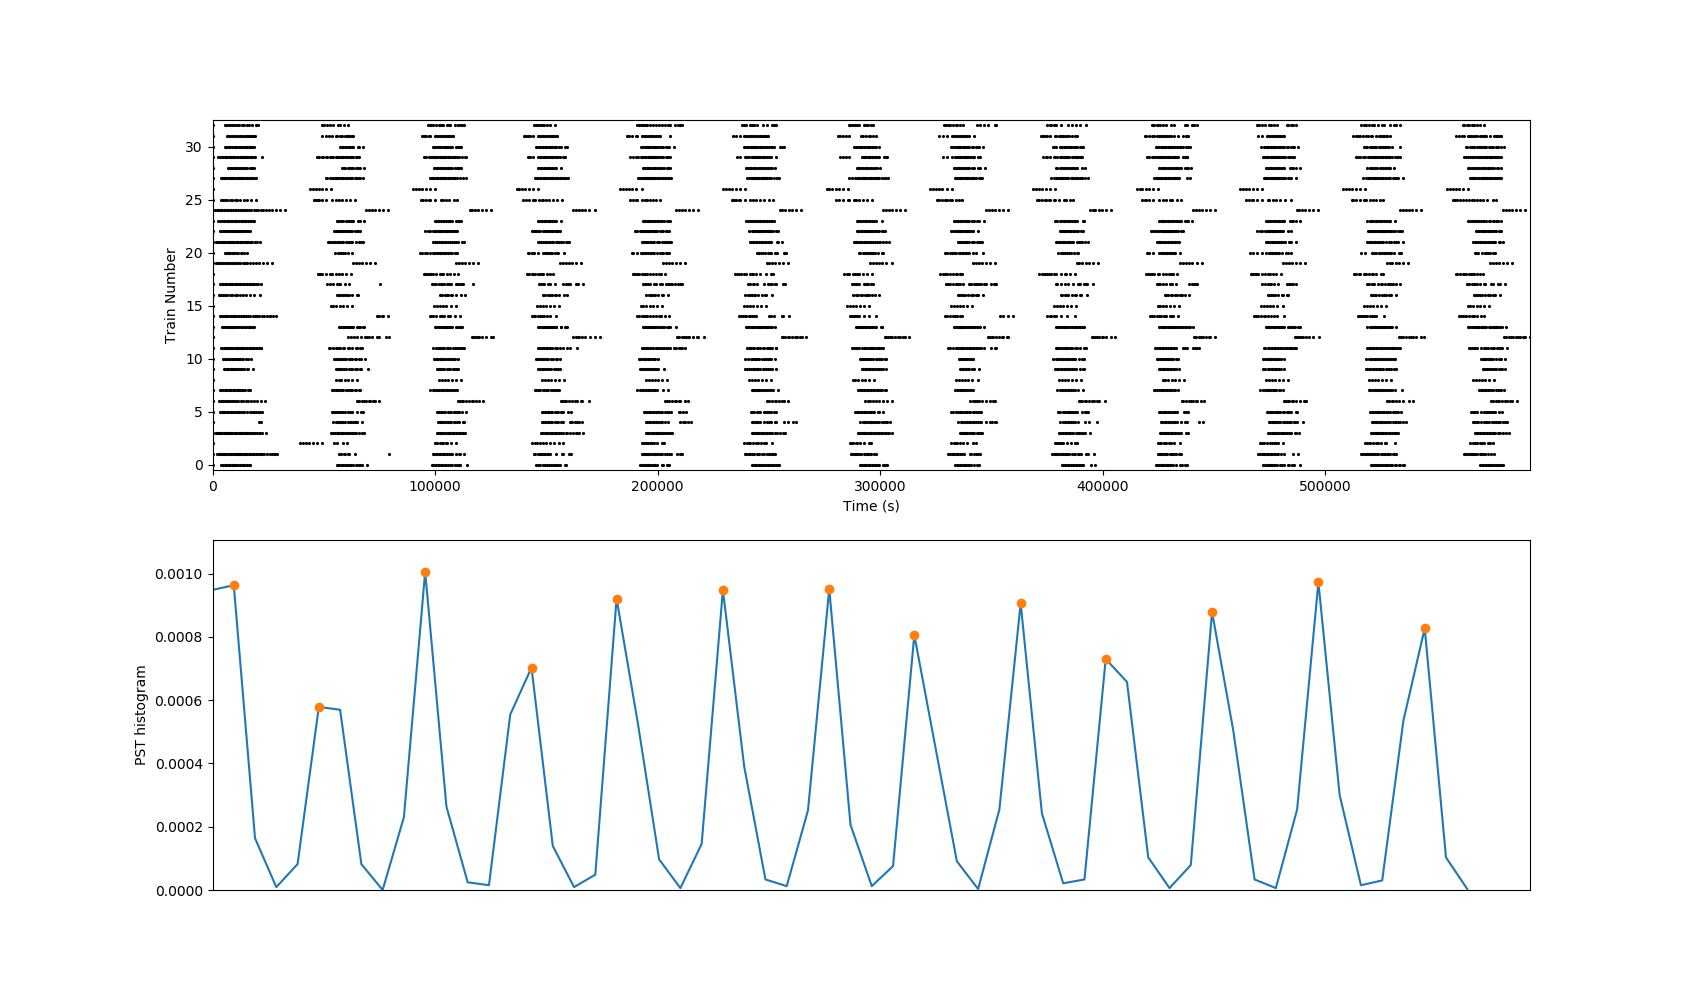
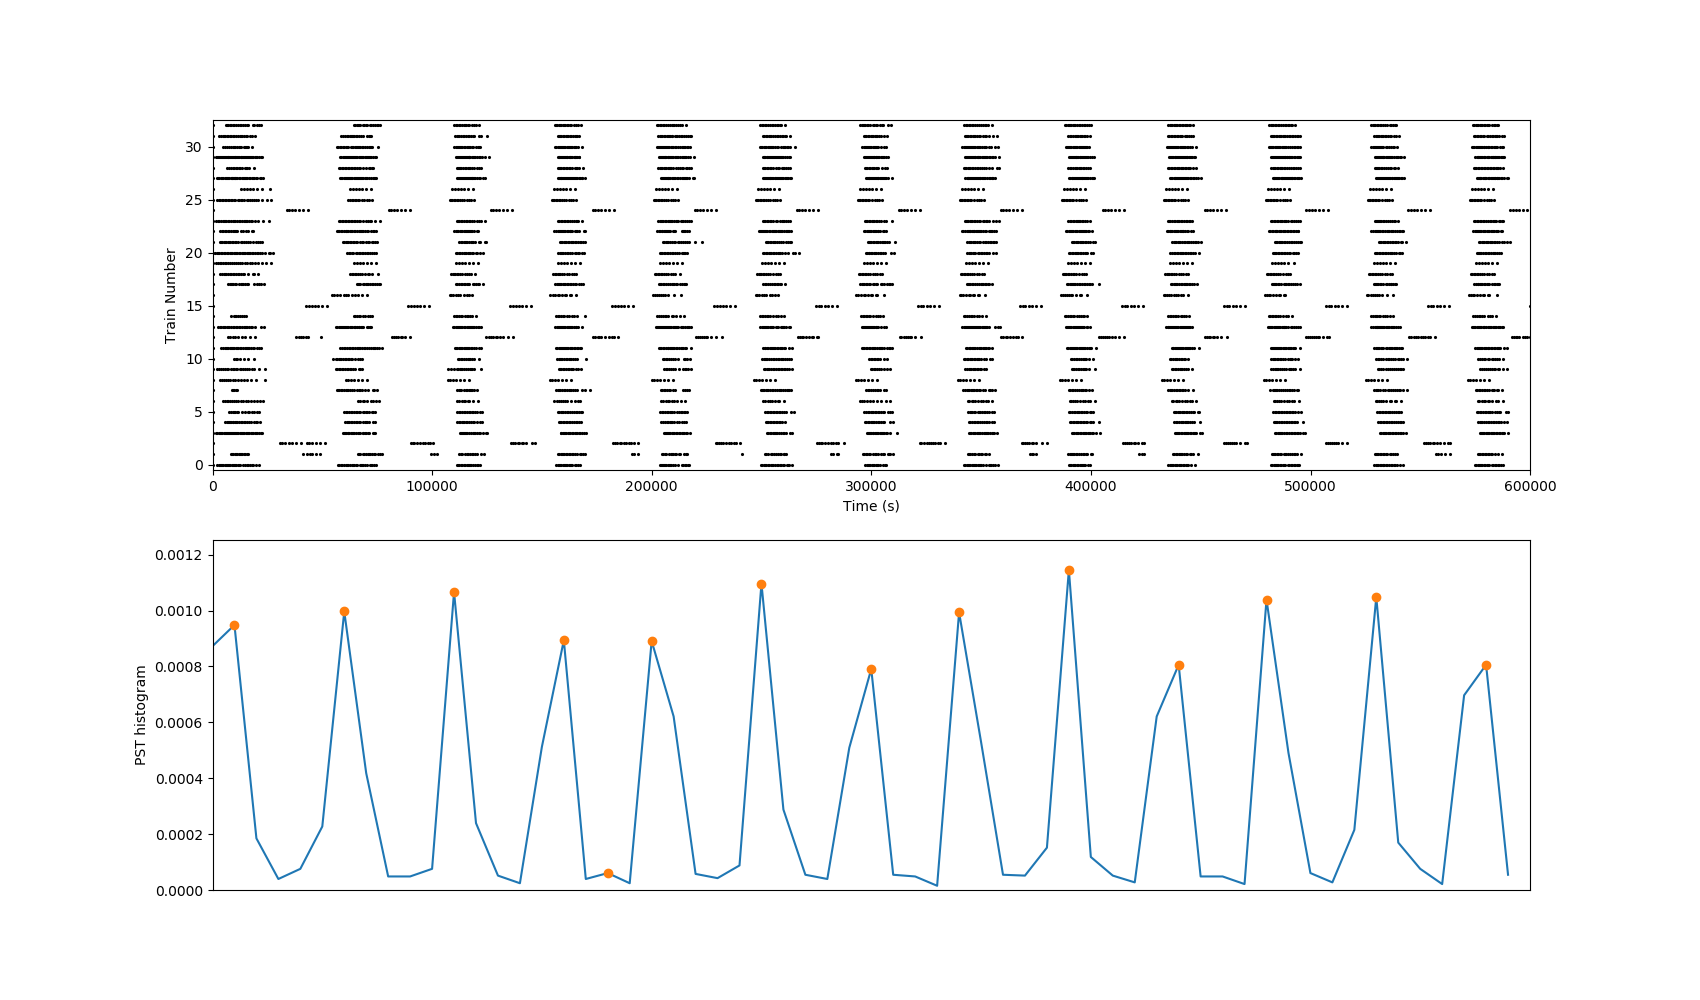
ran lots of sims

diff --git a/code/SPIKE/multi.py b/code/SPIKE/multi.py
@@ -1,8 +1,49 @@
 import os
 import sys
 
-matrix = sys.argv[1]
+# matrix = sys.argv[1]
 
-os.system("python ablate.py " + matrix + " q []")
-os.system("python ablate.py " + matrix + " cont []")
-os.system("python plotspikehist.py " + matrix)
+# os.system("python ablate.py " + matrix + " q []")
+# os.system("python ablate.py " + matrix + " cont []")
+# os.system("python plotspikehist.py " + matrix)
+
+
+os.system("python ablate.py " + "ER_n33p0.04" + " q []")
+os.system("python ablate.py " + "ER_n33p0.04" + " cont []")
+os.system("python plotspikehist.py " + "ER_n33p0.04")
+
+os.system("python ablate.py " + "ER_n33p0.05" + " q []")
+os.system("python ablate.py " + "ER_n33p0.05" + " cont []")
+os.system("python plotspikehist.py " + "ER_n33p0.05")
+
+os.system("python ablate.py " + "ER_n33p0.06" + " q []")
+os.system("python ablate.py " + "ER_n33p0.06" + " cont []")
+os.system("python plotspikehist.py " + "ER_n33p0.06")
+
+os.system("python ablate.py " + "ER_n33p0.07" + " q []")
+os.system("python ablate.py " + "ER_n33p0.07" + " cont []")
+os.system("python plotspikehist.py " + "ER_n33p0.07")
+
+os.system("python ablate.py " + "ER_n33p0.08" + " q []")
+os.system("python ablate.py " + "ER_n33p0.08" + " cont []")
+os.system("python plotspikehist.py " + "ER_n33p0.08")
+
+os.system("python ablate.py " + "ER_n33p0.09" + " q []")
+os.system("python ablate.py " + "ER_n33p0.09" + " cont []")
+os.system("python plotspikehist.py " + "ER_n33p0.09")
+
+os.system("python ablate.py " + "ER_n33p0.1" + " q []")
+os.system("python ablate.py " + "ER_n33p0.1" + " cont []")
+os.system("python plotspikehist.py " + "ER_n33p0.1")
+
+os.system("python ablate.py " + "ER_n33p0.11" + " q []")
+os.system("python ablate.py " + "ER_n33p0.11" + " cont []")
+os.system("python plotspikehist.py " + "ER_n33p0.11")
+
+os.system("python ablate.py " + "ER_n33p0.12" + " q []")
+os.system("python ablate.py " + "ER_n33p0.12" + " cont []")
+os.system("python plotspikehist.py " + "ER_n33p0.12")
+
+os.system("python ablate.py " + "ER_n33p0.13" + " q []")
+os.system("python ablate.py " + "ER_n33p0.13" + " cont []")
+os.system("python plotspikehist.py " + "ER_n33p0.13")

diff --git a/code/SPIKE/plotspikehist.py b/code/SPIKE/plotspikehist.py
@@ -57,7 +57,7 @@ sys.stdout.write('\x1b[1A')
 sys.stdout.write('\x1b[2K')
 plt.ylabel("PST histogram")
 # plt.xlim(xmin= 0, xmax=duration/1000)
-plt.xlim(xmin=0)
+plt.xlim(xmin=0, xmax=len(spikeHist[0]))
 plt.ylim(ymin=0)
 plt.xticks([])
 
@@ -65,11 +65,15 @@ plt.xticks([])
 
 plt.show(block=False)
 
-savesim = raw_input("save simulation? ")
-if(savesim == 'y'):
-    simname = raw_input("Simulation name: ")
-    if(simname == ''):
-        simname = matrix
-    plt.savefig('../simulation_files/SPIKE/' + simname + "-spikehist" + '.png')
+# savesim = raw_input("save simulation? ")
+# if(savesim == 'y'):
+#     simname = raw_input("Simulation name: ")
+#     if(simname == ''):
+#         simname = matrix
+#     plt.savefig('../simulation_files/SPIKE/' + simname + "-spikehist" + '.png')
+
+
+simname = matrix
+plt.savefig('../simulation_files/SPIKE/' + simname + "-spikehist" + '.png')
 
 plt.close()
